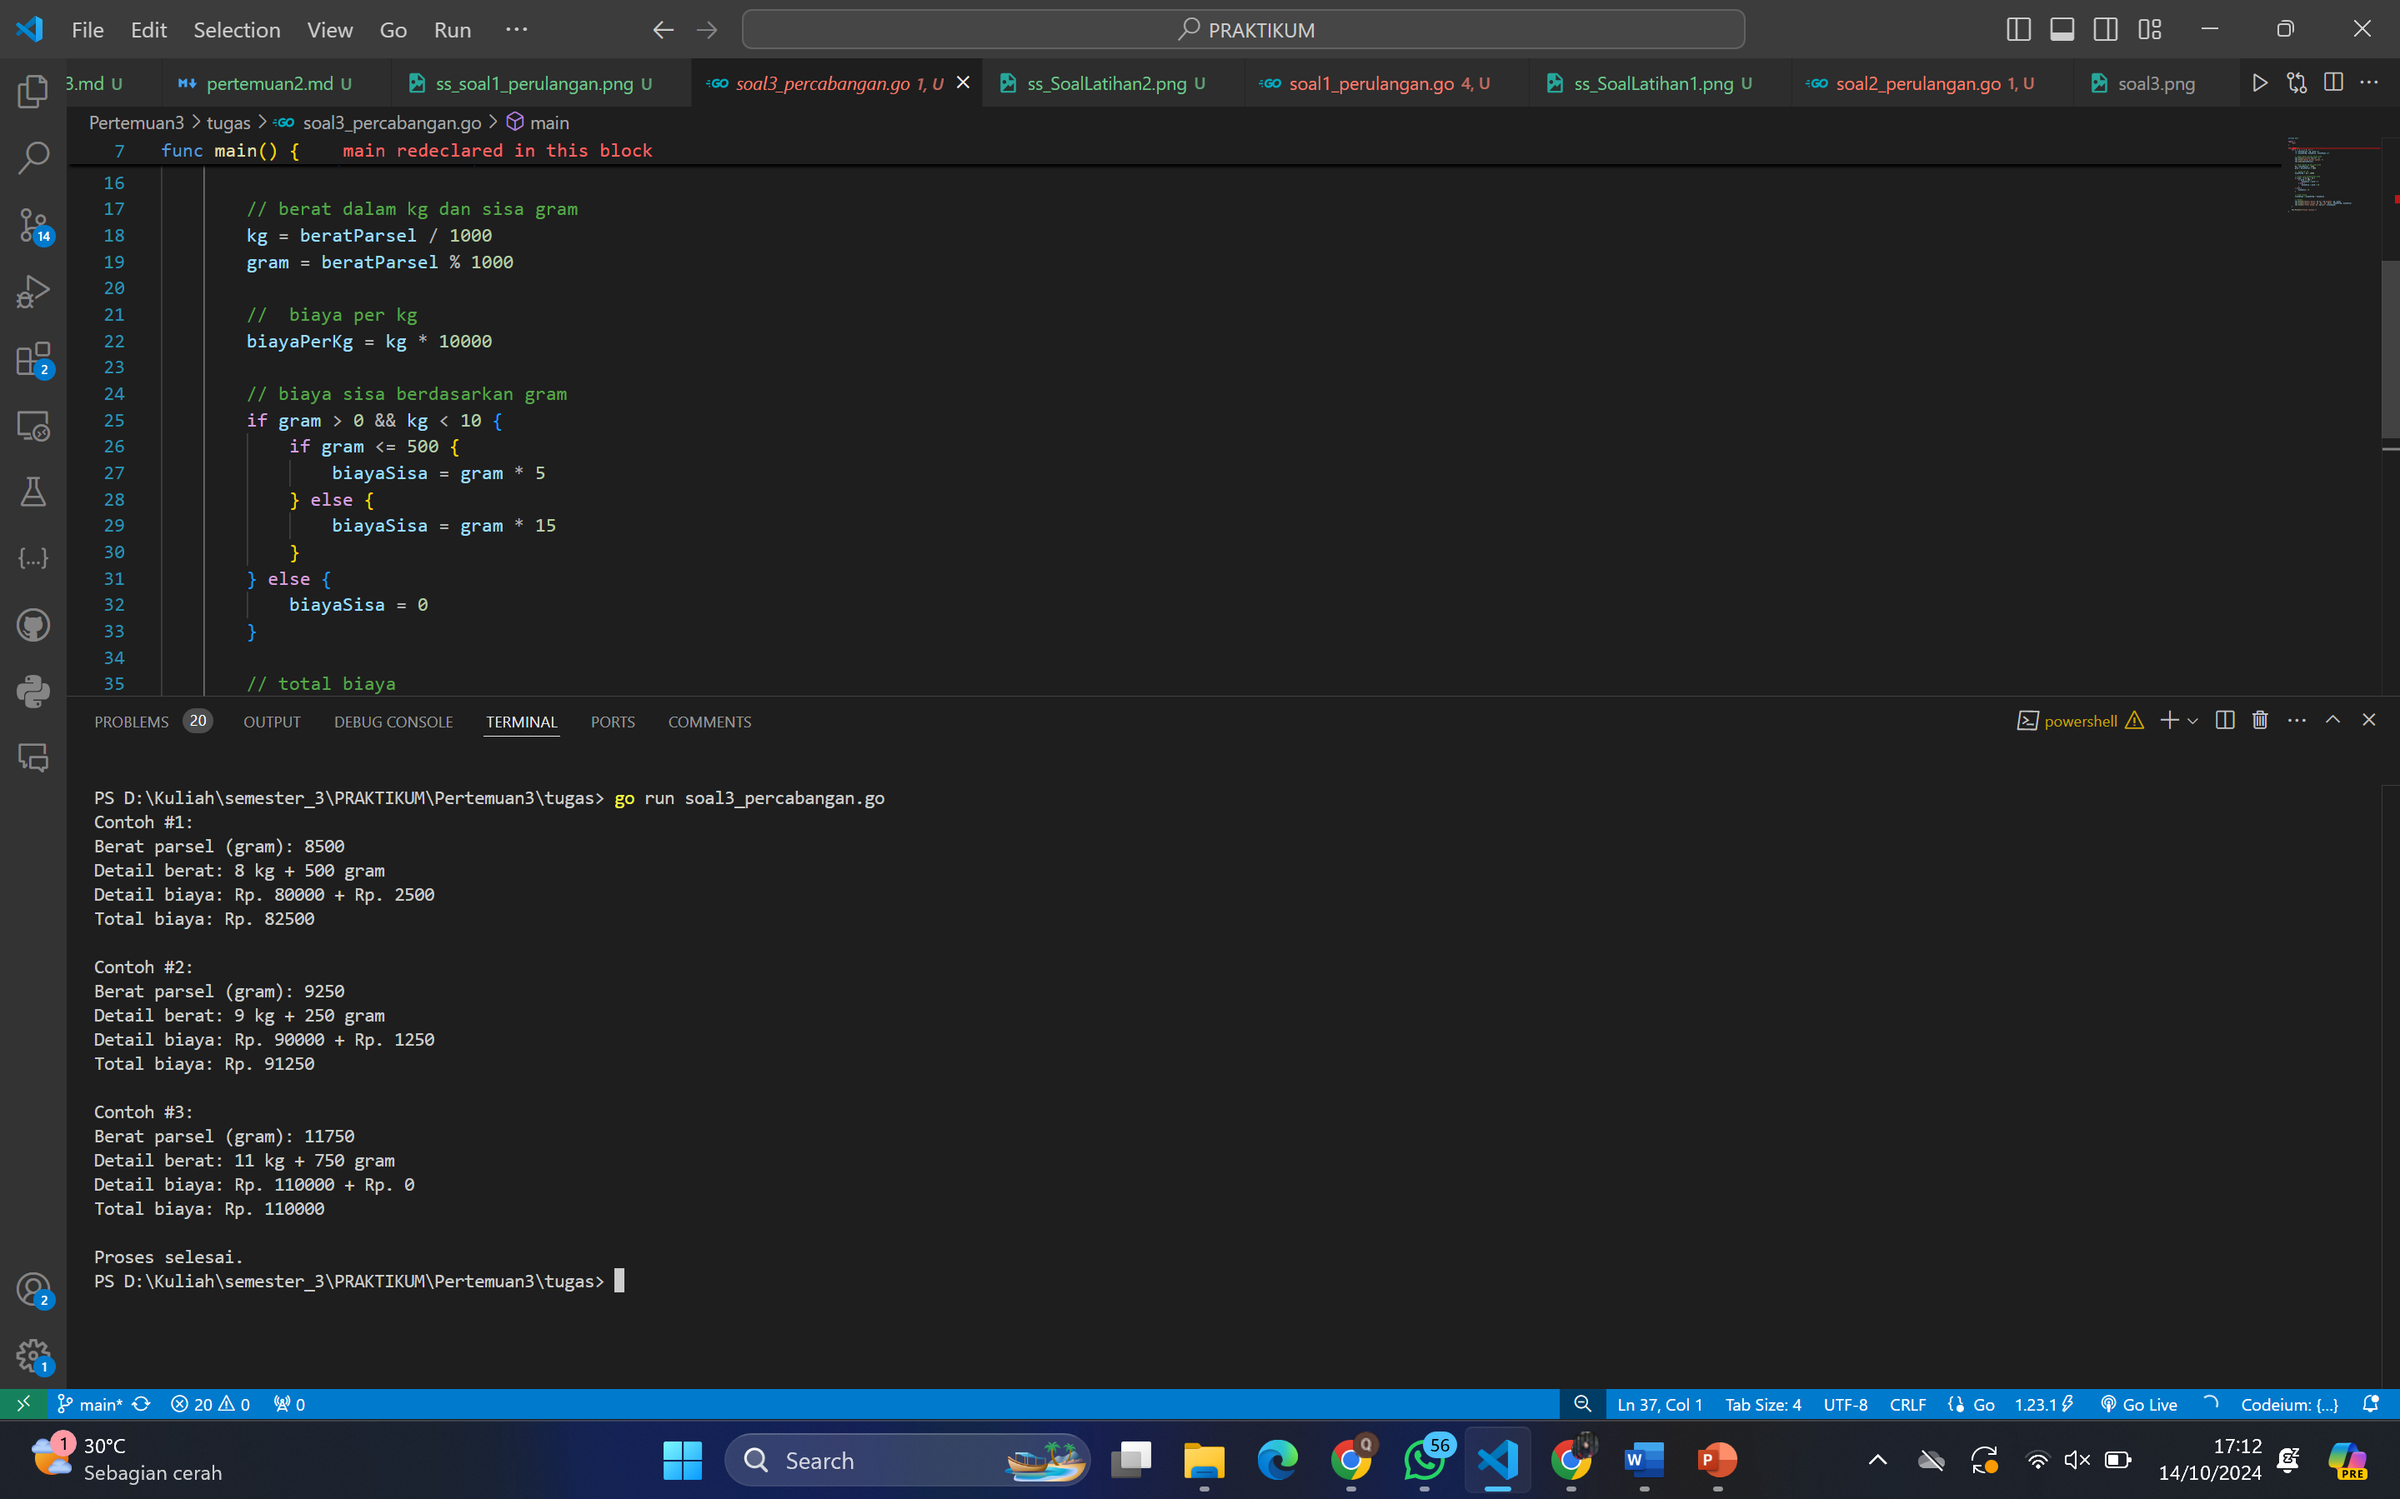
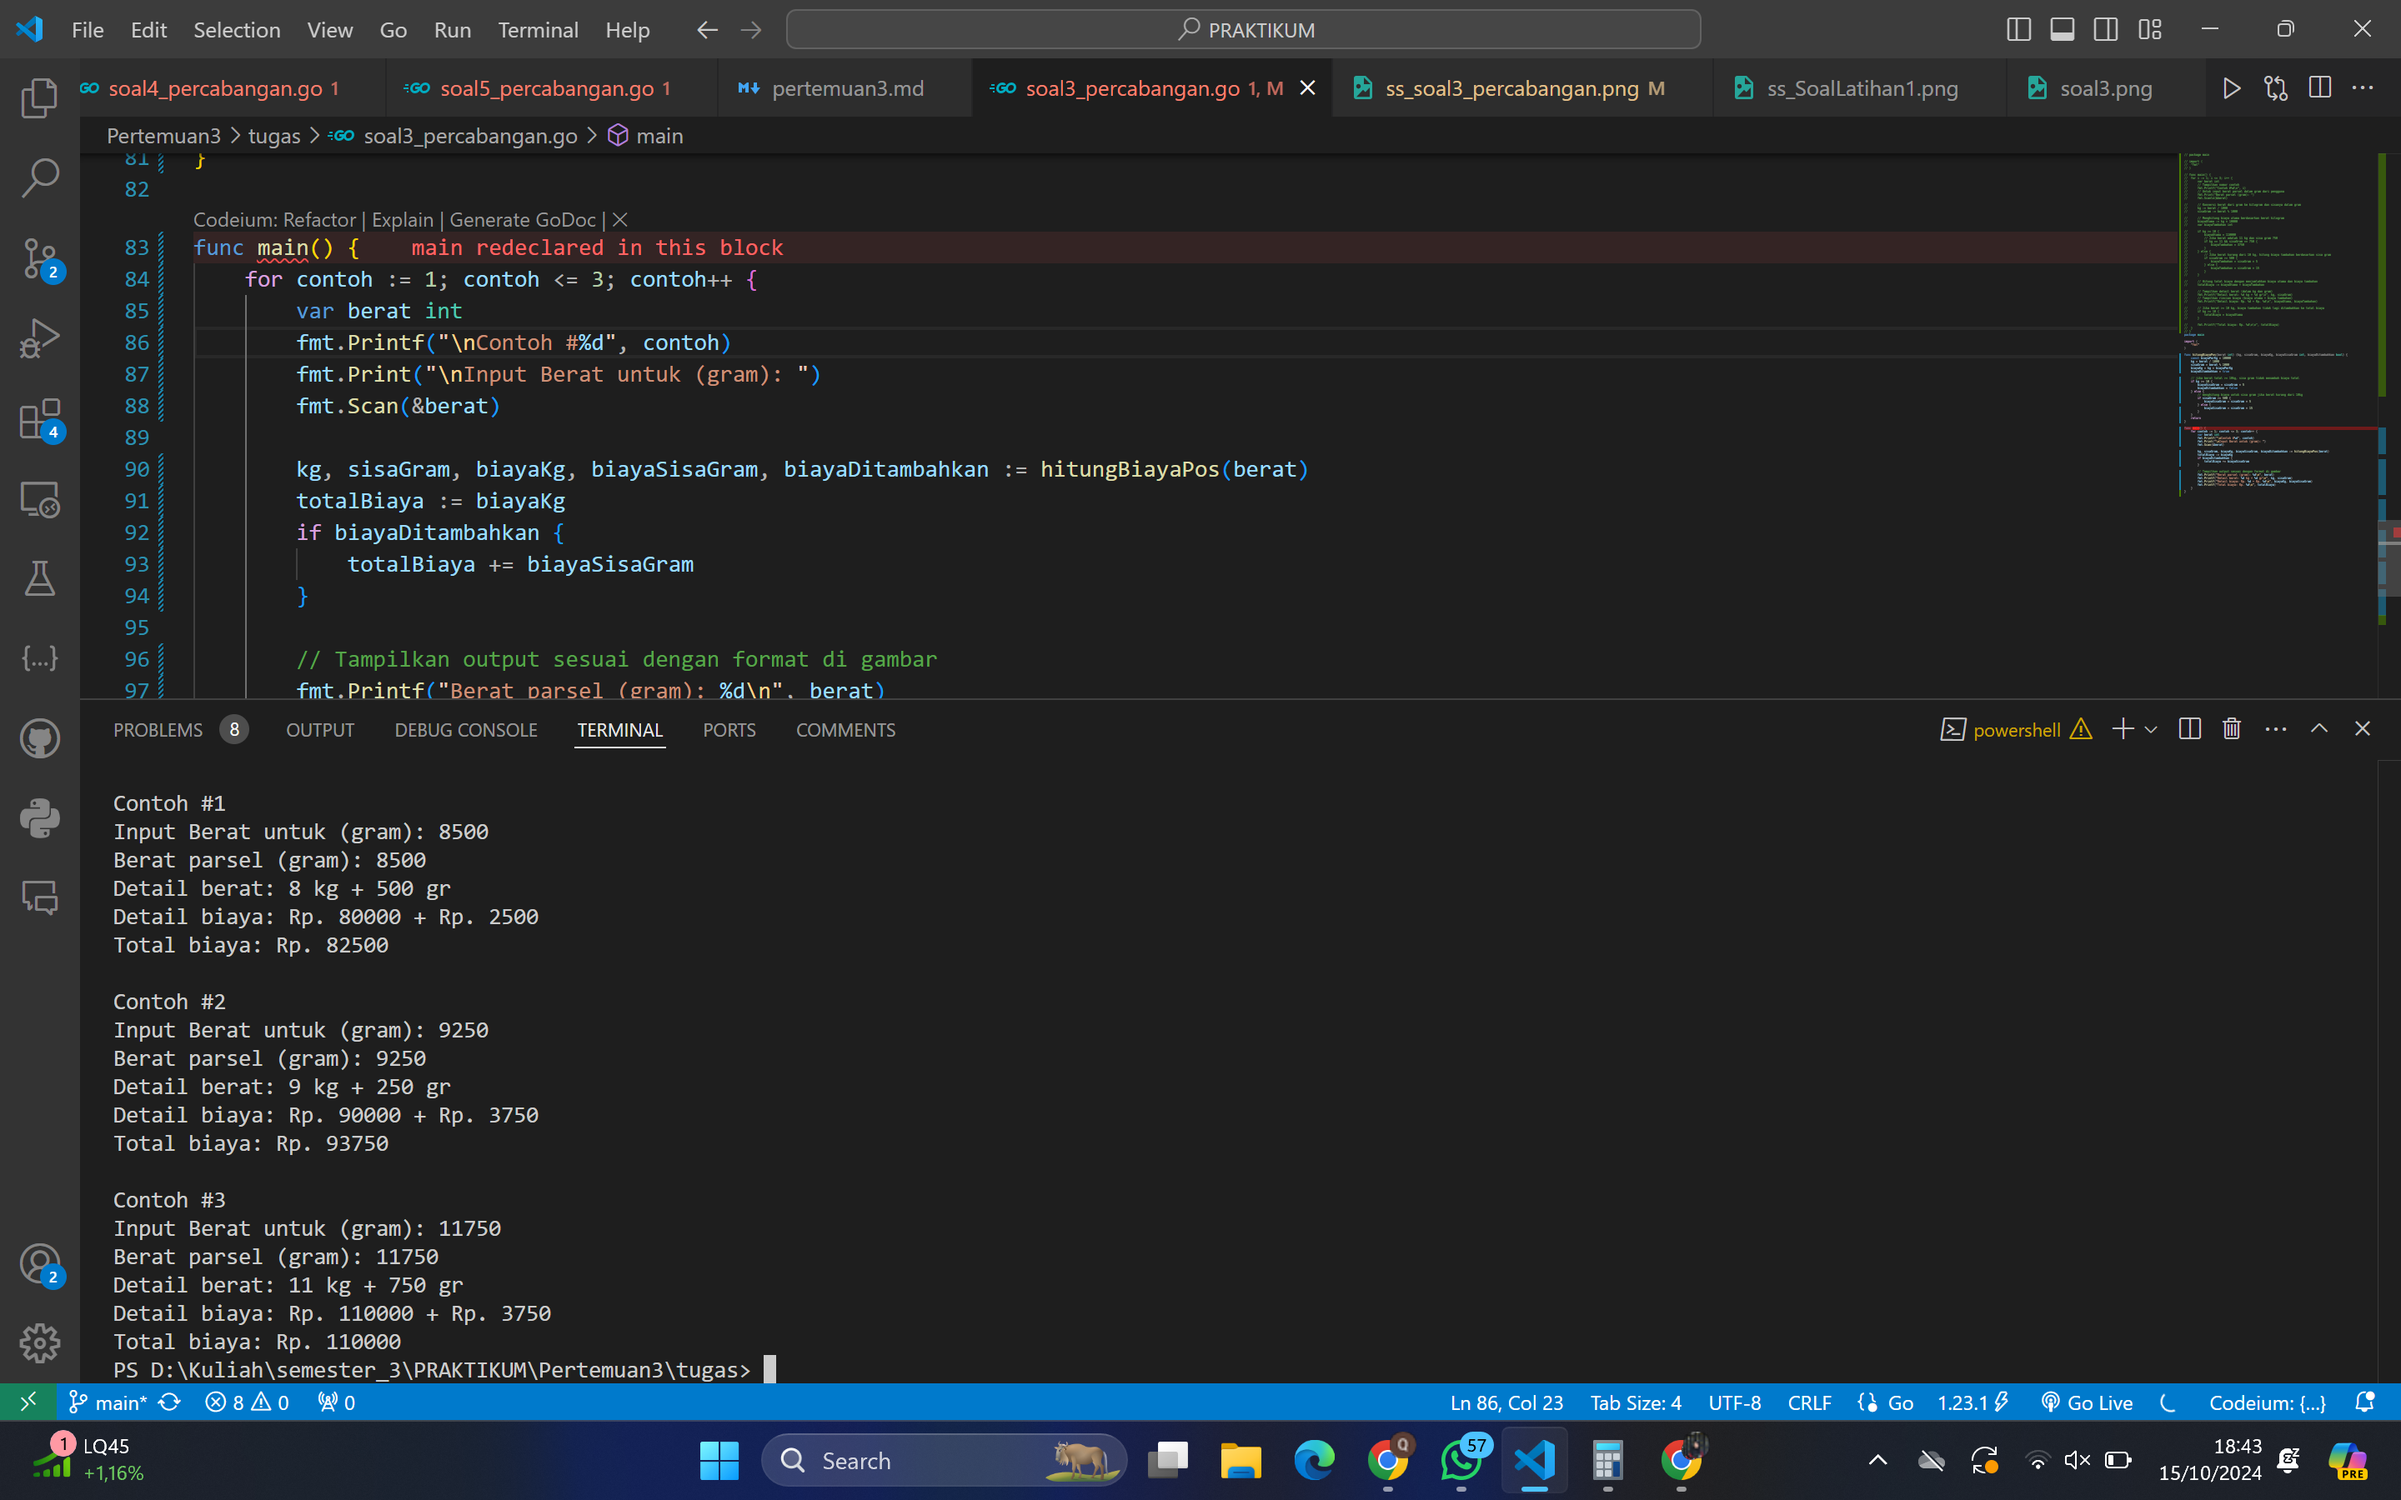
pertemuan3

diff --git a/Pertemuan3/tugas/soal3_percabangan.go b/Pertemuan3/tugas/soal3_percabangan.go
@@ -4,42 +4,45 @@ import (
 	"fmt"
 )
 
-func main() {
-	for i := 1; i <= 3; i++ {
-		var beratParsel, kg, gram int
-		var biayaPerKg, biayaSisa, totalBiaya int
+func hitungBiayaPos(berat int) (kg, sisaGram, biayaKg, biayaSisaGram int, biayaDitambahkan bool) {
+	const biayaPerKg = 10000
+	kg = berat / 1000
+	sisaGram = berat % 1000
+	biayaKg = kg * biayaPerKg
+	biayaDitambahkan = true 
 
-		// Input berat parsel dalam gram
-		fmt.Printf("Contoh #%d:\n", i)
-		fmt.Print("Berat parsel (gram): ")
-		fmt.Scan(&beratParsel)
-
-		// berat dalam kg dan sisa gram
-		kg = beratParsel / 1000
-		gram = beratParsel % 1000
-
-		//  biaya per kg 
-		biayaPerKg = kg * 10000
-
-		// biaya sisa berdasarkan gram
-		if gram > 0 && kg < 10 {
-			if gram <= 500 {
-				biayaSisa = gram * 5
-			} else {
-				biayaSisa = gram * 15
-			}
+	// jika berat total >= 10kg, sisa gram tidak menambah biaya total
+	if kg >= 10 {
+		biayaSisaGram = sisaGram * 5
+		biayaDitambahkan = false    
+	} else {
+		// menghitung biaya untuk sisa gram jika berat kurang dari 10kg
+		if sisaGram >= 500 {
+			biayaSisaGram = sisaGram * 5
 		} else {
-			biayaSisa = 0 
+			biayaSisaGram = sisaGram * 15
+		}
+	}
+	return
+}
+
+func main() {
+	for contoh := 1; contoh <= 3; contoh++ {
+		var berat int
+		fmt.Printf("\nContoh #%d", contoh)
+		fmt.Print("\nInput Berat untuk (gram): ")
+		fmt.Scan(&berat)
+
+		kg, sisaGram, biayaKg, biayaSisaGram, biayaDitambahkan := hitungBiayaPos(berat)
+		totalBiaya := biayaKg
+		if biayaDitambahkan {
+			totalBiaya += biayaSisaGram
 		}
 
-		// total biaya
-		totalBiaya = biayaPerKg + biayaSisa
-
-		// Output 
-		fmt.Printf("Detail berat: %d kg + %d gram\n", kg, gram)
-		fmt.Printf("Detail biaya: Rp. %d + Rp. %d\n", biayaPerKg, biayaSisa)
-		fmt.Printf("Total biaya: Rp. %d\n\n", totalBiaya)
+		// Tampilkan output sesuai dengan format di gambar
+		fmt.Printf("Berat parsel (gram): %d\n", berat)
+		fmt.Printf("Detail berat: %d kg + %d gr\n", kg, sisaGram)
+		fmt.Printf("Detail biaya: Rp. %d + Rp. %d\n", biayaKg, biayaSisaGram)
+		fmt.Printf("Total biaya: Rp. %d\n", totalBiaya)
 	}
-
-	fmt.Println("Proses selesai.")
 }

diff --git a/Pertemuan3/pertemuan3.md b/Pertemuan3/pertemuan3.md
@@ -1,9 +1,8 @@
 # <h1 align="center">Laporan Praktikum Modul 3-Perulangan & Percabangan</h1>
 
-
 <h1 align="center">QONITA RAHAYU ATMI-2311102128</h1>
 
-A. Soal Latihan
+<h1>A. Soal Latihan</h1>
 
 ### 1. Soal Latihan 1
 
@@ -92,7 +91,7 @@ func main() {
 
 ![Output ss_SoalLatihan2!](assets/ss_SoalLatihan2.png)
 
-B. Tugas
+<h1>B. Tugas</h1>
 
 ### 1. Tugas Soal 1 Perulangan
 
@@ -195,44 +194,47 @@ import (
 	"fmt"
 )
 
-func main() {
-	for i := 1; i <= 3; i++ {
-		var beratParsel, kg, gram int
-		var biayaPerKg, biayaSisa, totalBiaya int
+func hitungBiayaPos(berat int) (kg, sisaGram, biayaKg, biayaSisaGram int, biayaDitambahkan bool) {
+	const biayaPerKg = 10000
+	kg = berat / 1000
+	sisaGram = berat % 1000
+	biayaKg = kg * biayaPerKg
+	biayaDitambahkan = true 
 
-		// Input berat parsel dalam gram
-		fmt.Printf("Contoh #%d:\n", i)
-		fmt.Print("Berat parsel (gram): ")
-		fmt.Scan(&beratParsel)
-
-		// berat dalam kg dan sisa gram
-		kg = beratParsel / 1000
-		gram = beratParsel % 1000
-
-		//  biaya per kg 
-		biayaPerKg = kg * 10000
-
-		// biaya sisa berdasarkan gram
-		if gram > 0 && kg < 10 {
-			if gram <= 500 {
-				biayaSisa = gram * 5
-			} else {
-				biayaSisa = gram * 15
-			}
+	// jika berat total >= 10kg, sisa gram tidak menambah biaya total
+	if kg >= 10 {
+		biayaSisaGram = sisaGram * 5
+		biayaDitambahkan = false    
+	} else {
+		// menghitung biaya untuk sisa gram jika berat kurang dari 10kg
+		if sisaGram >= 500 {
+			biayaSisaGram = sisaGram * 5
 		} else {
-			biayaSisa = 0 
+			biayaSisaGram = sisaGram * 15
+		}
+	}
+	return
+}
+
+func main() {
+	for contoh := 1; contoh <= 3; contoh++ {
+		var berat int
+		fmt.Printf("\nContoh #%d", contoh)
+		fmt.Print("\nInput Berat untuk (gram): ")
+		fmt.Scan(&berat)
+
+		kg, sisaGram, biayaKg, biayaSisaGram, biayaDitambahkan := hitungBiayaPos(berat)
+		totalBiaya := biayaKg
+		if biayaDitambahkan {
+			totalBiaya += biayaSisaGram
 		}
 
-		// total biaya
-		totalBiaya = biayaPerKg + biayaSisa
-
-		// Output 
-		fmt.Printf("Detail berat: %d kg + %d gram\n", kg, gram)
-		fmt.Printf("Detail biaya: Rp. %d + Rp. %d\n", biayaPerKg, biayaSisa)
-		fmt.Printf("Total biaya: Rp. %d\n\n", totalBiaya)
+		// Tampilkan output sesuai dengan format di gambar
+		fmt.Printf("Berat parsel (gram): %d\n", berat)
+		fmt.Printf("Detail berat: %d kg + %d gr\n", kg, sisaGram)
+		fmt.Printf("Detail biaya: Rp. %d + Rp. %d\n", biayaKg, biayaSisaGram)
+		fmt.Printf("Total biaya: Rp. %d\n", totalBiaya)
 	}
-
-	fmt.Println("Proses selesai.")
 }
 ```
 
